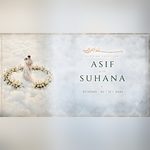
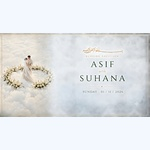
Configure 150x150 thumbnail and metadata for compact WhatsApp preview card

diff --git a/digiwed161-sys.github.io/SahalwedsFasmina2/index.html b/digiwed161-sys.github.io/SahalwedsFasmina2/index.html
@@ -21,10 +21,10 @@
 <meta property="og:image" content="og-thumb.jpg">
 <meta property="og:image:secure_url" content="og-thumb.jpg">
 <meta property="og:image:type" content="image/jpeg">
-<meta property="og:image:width" content="1024">
-<meta property="og:image:height" content="576">
+<meta property="og:image:width" content="150">
+<meta property="og:image:height" content="150">
 <meta property="og:url" content="./">
-<meta name="twitter:card" content="summary_large_image">
+<meta name="twitter:card" content="summary">
 <meta name="twitter:title" content="Asif &amp; Suhana | 1st November 2026">
 <meta name="twitter:description" content="Sunday, 01 November 2026 &middot; Wedding Ceremony &amp; Reception 11:00 AM &ndash; 2:00 PM &mdash; TMM Auditorium, Swagathamad.">
 <meta name="twitter:image" content="og-thumb.jpg">

diff --git a/digiwed161-sys.github.io/SahalwedsFasmina2/index7fc9.html b/digiwed161-sys.github.io/SahalwedsFasmina2/index7fc9.html
@@ -21,10 +21,10 @@
 <meta property="og:image" content="og-thumb.jpg">
 <meta property="og:image:secure_url" content="og-thumb.jpg">
 <meta property="og:image:type" content="image/jpeg">
-<meta property="og:image:width" content="1024">
-<meta property="og:image:height" content="576">
+<meta property="og:image:width" content="150">
+<meta property="og:image:height" content="150">
 <meta property="og:url" content="./">
-<meta name="twitter:card" content="summary_large_image">
+<meta name="twitter:card" content="summary">
 <meta name="twitter:title" content="Asif &amp; Suhana | 1st November 2026">
 <meta name="twitter:description" content="Sunday, 01 November 2026 &middot; Wedding Ceremony &amp; Reception 11:00 AM &ndash; 2:00 PM &mdash; TMM Auditorium, Swagathamad.">
 <meta name="twitter:image" content="og-thumb.jpg">

diff --git a/index.html b/index.html
@@ -21,10 +21,10 @@
 <meta property="og:image" content="og-thumb.jpg">
 <meta property="og:image:secure_url" content="og-thumb.jpg">
 <meta property="og:image:type" content="image/jpeg">
-<meta property="og:image:width" content="1024">
-<meta property="og:image:height" content="576">
+<meta property="og:image:width" content="150">
+<meta property="og:image:height" content="150">
 <meta property="og:url" content="./">
-<meta name="twitter:card" content="summary_large_image">
+<meta name="twitter:card" content="summary">
 <meta name="twitter:title" content="Asif &amp; Suhana | 1st November 2026">
 <meta name="twitter:description" content="Sunday, 01 November 2026 &middot; Wedding Ceremony &amp; Reception 11:00 AM &ndash; 2:00 PM &mdash; TMM Auditorium, Swagathamad.">
 <meta name="twitter:image" content="og-thumb.jpg">
